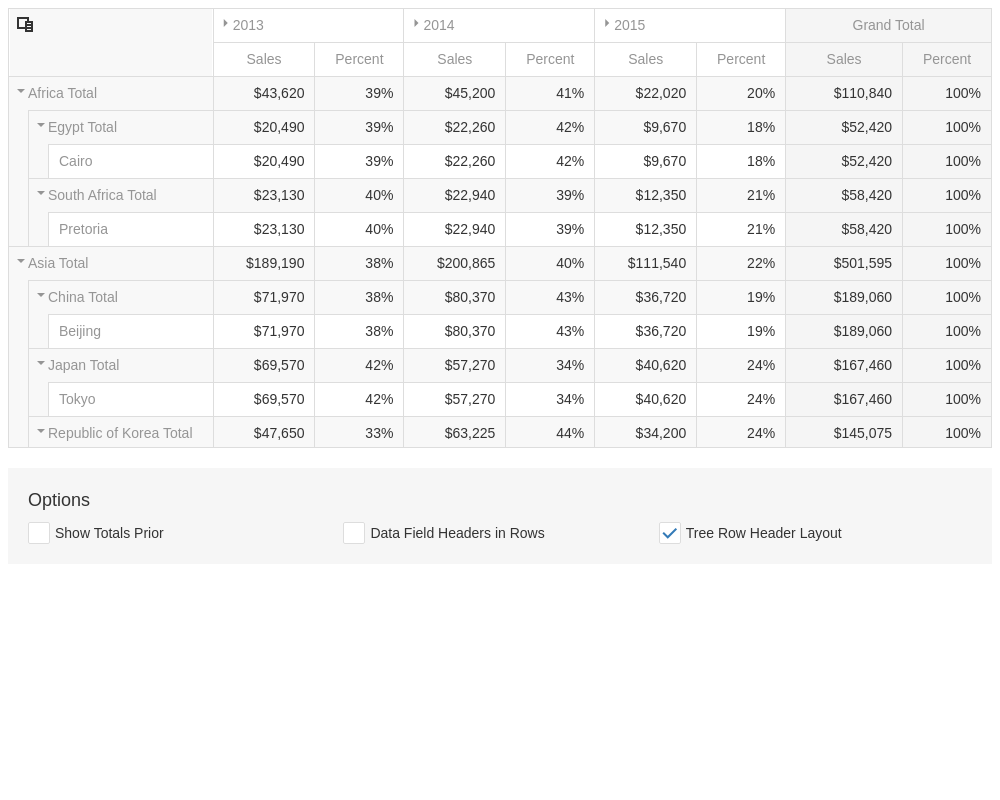
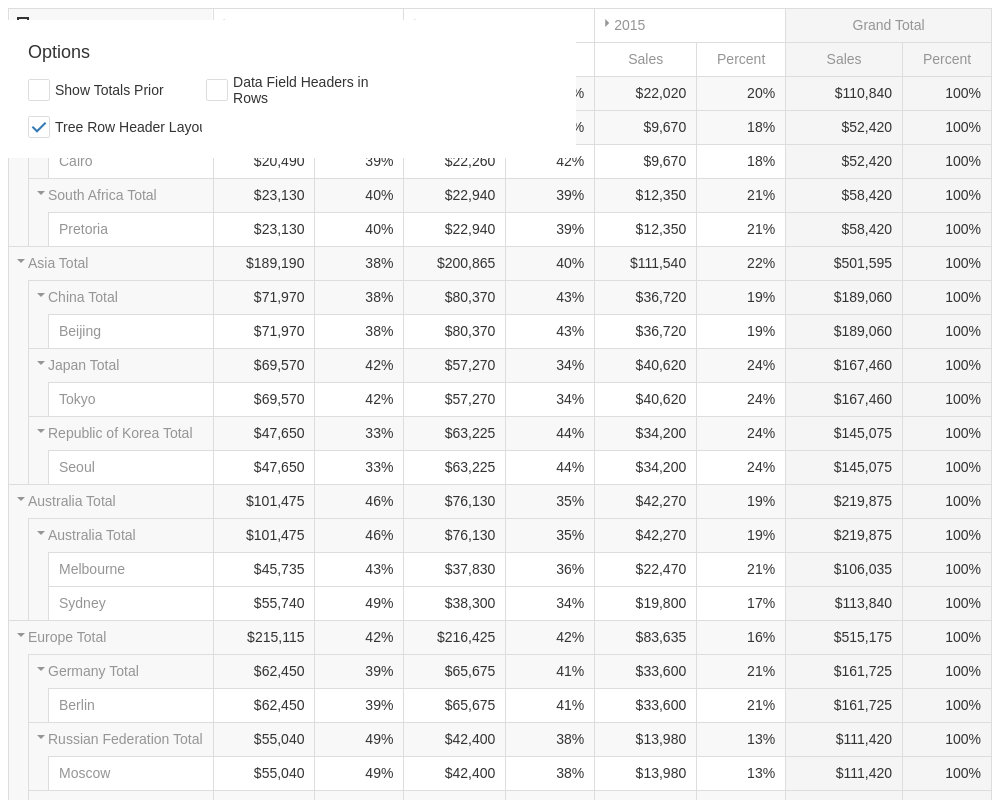
pivot - layout customization

diff --git a/JSDemos/Demos/PivotGrid/LayoutCustomization/test-code.js b/JSDemos/Demos/PivotGrid/LayoutCustomization/test-code.js
@@ -1,0 +1,7 @@
+testUtils
+    .postponeUntilFound('.dx-pivotgrid')
+    .then(() => testUtils.importAnd(() => 'devextreme/ui/pivot_grid', () => DevExpress.ui.dxPivotGrid, function (dxPivotGrid) {
+        testUtils.findElements('.dx-pivotgrid:first-of-type').forEach((x) => {
+            dxPivotGrid.getInstance(x).resetOption('height');
+        })
+    }));

diff --git a/JSDemos/Demos/PivotGrid/LayoutCustomization/test-styles.css b/JSDemos/Demos/PivotGrid/LayoutCustomization/test-styles.css
@@ -1,0 +1,9 @@
+.dx-pivotgrid:first-of-type {
+    height: 100vh !important;
+}
+
+.options {
+    position: absolute;
+    top: 0px;
+    background-color: white;
+}
